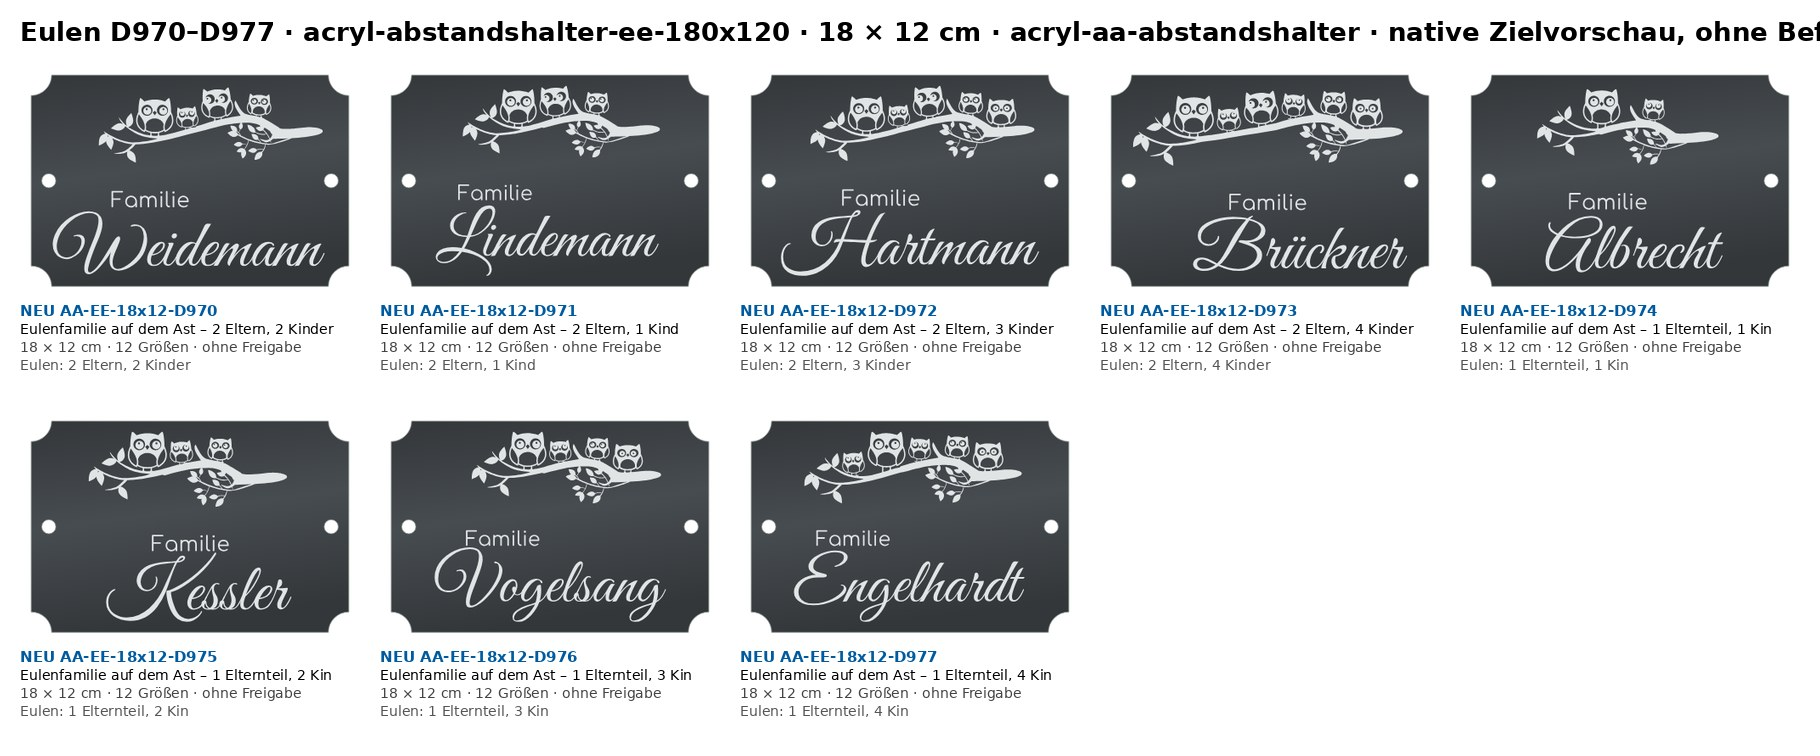
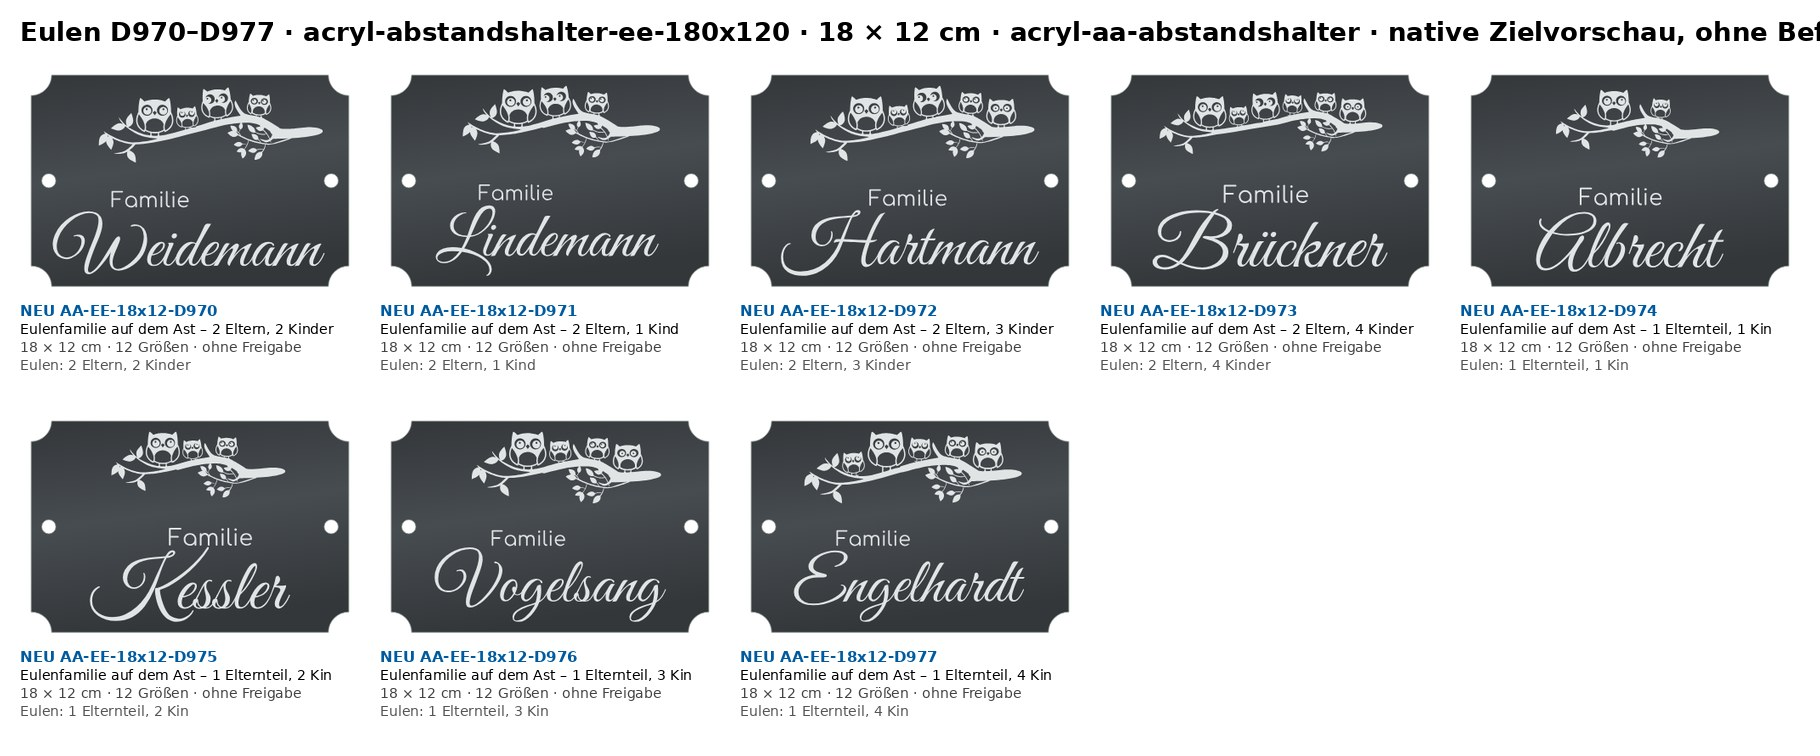
Eulen-Familienschild: Bögen neu (Eulen rechts, Familie über 2. Buchstaben, D973/D977 ab 12×8)
Claude-Session: https://claude.ai/code/session_01TFZAfd3zBRL6y6PGwVXrsG

diff --git a/docs/handoffs/familien-eulen-20261102/BERICHT.md b/docs/handoffs/familien-eulen-20261102/BERICHT.md
@@ -17,11 +17,11 @@ Katalog-Branch `dev/familien-eulen-20261102` (Entwurfs-PR), Issue gravuru-2027 #
 | D976 | 1 Elternteil, 3 Kinder | Vogelsang |
 | D977 | 1 Elternteil, 4 Kinder | Engelhardt |
 
-Modus neu, Schriften Comfortaa („Familie“, 31,5 % der Namensgröße) + Great Vibes (Name), Thema familienschilder, keine Freigabe.
+D973/D977 (4 Kinder, feinste Blattstiele) erst ab 12 × 8 (`hinweisGroessen`). Modus neu, Schriften Comfortaa („Familie“, 31,5 % der Namensgröße) + Great Vibes (Name), Thema familienschilder, keine Freigabe.
 
 ## Aufbau je Form
-- Querformat (Rechteck 3:2, AB, Oval 9×6/15×8, Retro 1/2, AA 15×10/R5/EE 18×12/Oval, Kordel 15×9…30×20): Eulen oben rechtsbündig über dem Namen, „Familie“ beginnt über dem 2. Buchstaben (Abstand wie Simulation), Gruppe mittig (Simulation war ~10 mm nach rechts versetzt → §7).
-- Quadrat/Rund/Hochformat (8×8, Rund, AA 16×16, 10×15, R5 10×15, EE 12×18, 7×21, Kordel 20×20/20×25): Eulen oben in Textbreite, Text darunter, gleiches „Familie“-Prinzip.
+- Querformat (Rechteck 3:2, AB, Oval 9×6/15×8, Retro 1/2, AA 15×10/R5/EE 18×12/Oval, Kordel 15×9…30×20): Eulen oben **rechts** – rechte Astkante bündig mit dem Namensende, Motiv schmaler als der Name (87 % wie Simulation, bei 5–6 Eulen 95 %); „Familie“ versetzt darunter, beginnt über dem 2. Buchstaben (D970 Weidemann exakt wie Simulation v3); Name groß; Gesamtgruppe mittig (Korrektur Claude 02.11.).
+- Quadrat/Rund/Hochformat (8×8, Rund, AA 16×16, 10×15, R5 10×15, EE 12×18, 7×21, Kordel 20×20/20×25): Eulen oben rechts versetzt (85–92 % der Namensbreite, rechtsbündig), Text darunter, gleiches „Familie“-Prinzip.
 - AA 21×7: Eulen links neben dem Text (Langformat).
 - Abstandshalter-Zonen (AA/AS/SS) und Kordel-Löcher + 6 mm Bruchkante frei.
 
@@ -38,5 +38,5 @@ Gesamt 208 neue Designs.
 - Kontaktbögen ohne Bohrlöcher/Abstandshalter; Edelstahl-Bögen mit je einer Acryl-3-mm-Vorschau.
 
 ## Offene Punkte
-- Feine Blattstiele an 9 × 6 (< 0,3 mm) – ggf. Motiv für Kleinformate verstärken oder D973/D977 erst ab 12 × 8 anbieten (Entscheidung Chris).
+- Feine Blattstiele an 9 × 6 (< 0,3 mm) bei D970–D972/D974–D976 (min. ~0,28 mm) – wie im Bestandsmotiv.
 - Startdesign-Vorschlag: D970 (Chris' Wunschentwurf, 2 Eltern + 2 Kinder).
